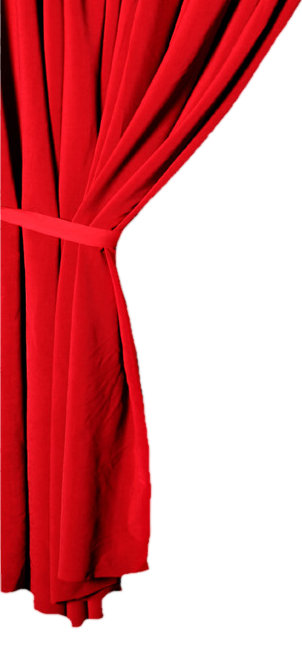
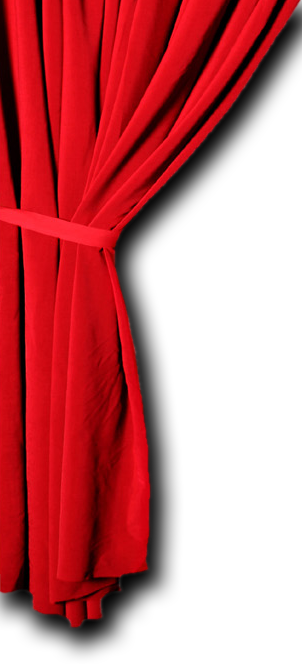
fix curtain overflow issue

diff --git a/app/styles/10_all.sass b/app/styles/10_all.sass
@@ -38,20 +38,20 @@ a,a:link,a:hover,a:active
 #cinema-curtain
   width: 100%
   position: absolute
+  box-sizing: border-box
+  border: 0
+  z-index: 1
   height: 664px
+  top: 0
+  left: 0
+  .curtain-left, .curtain-right
+    background-repeat: no-repeat
+    margin-top: 5px
+    height: 664px
+    width: 302px
   .curtain-left
     background-image: url('/img/curtain-left.png') 
-    background-repeat: no-repeat
     float: left
-    width: 302px
-    height: 664px
-    margin-top: 5px
-    margin-left: -16px
   .curtain-right
     background-image: url('/img/curtain-right.png') 
-    background-repeat: no-repeat
-    height: 664px
-    width: 302px
     float: right
-    margin-top: 5px
-    margin-right: -18px
